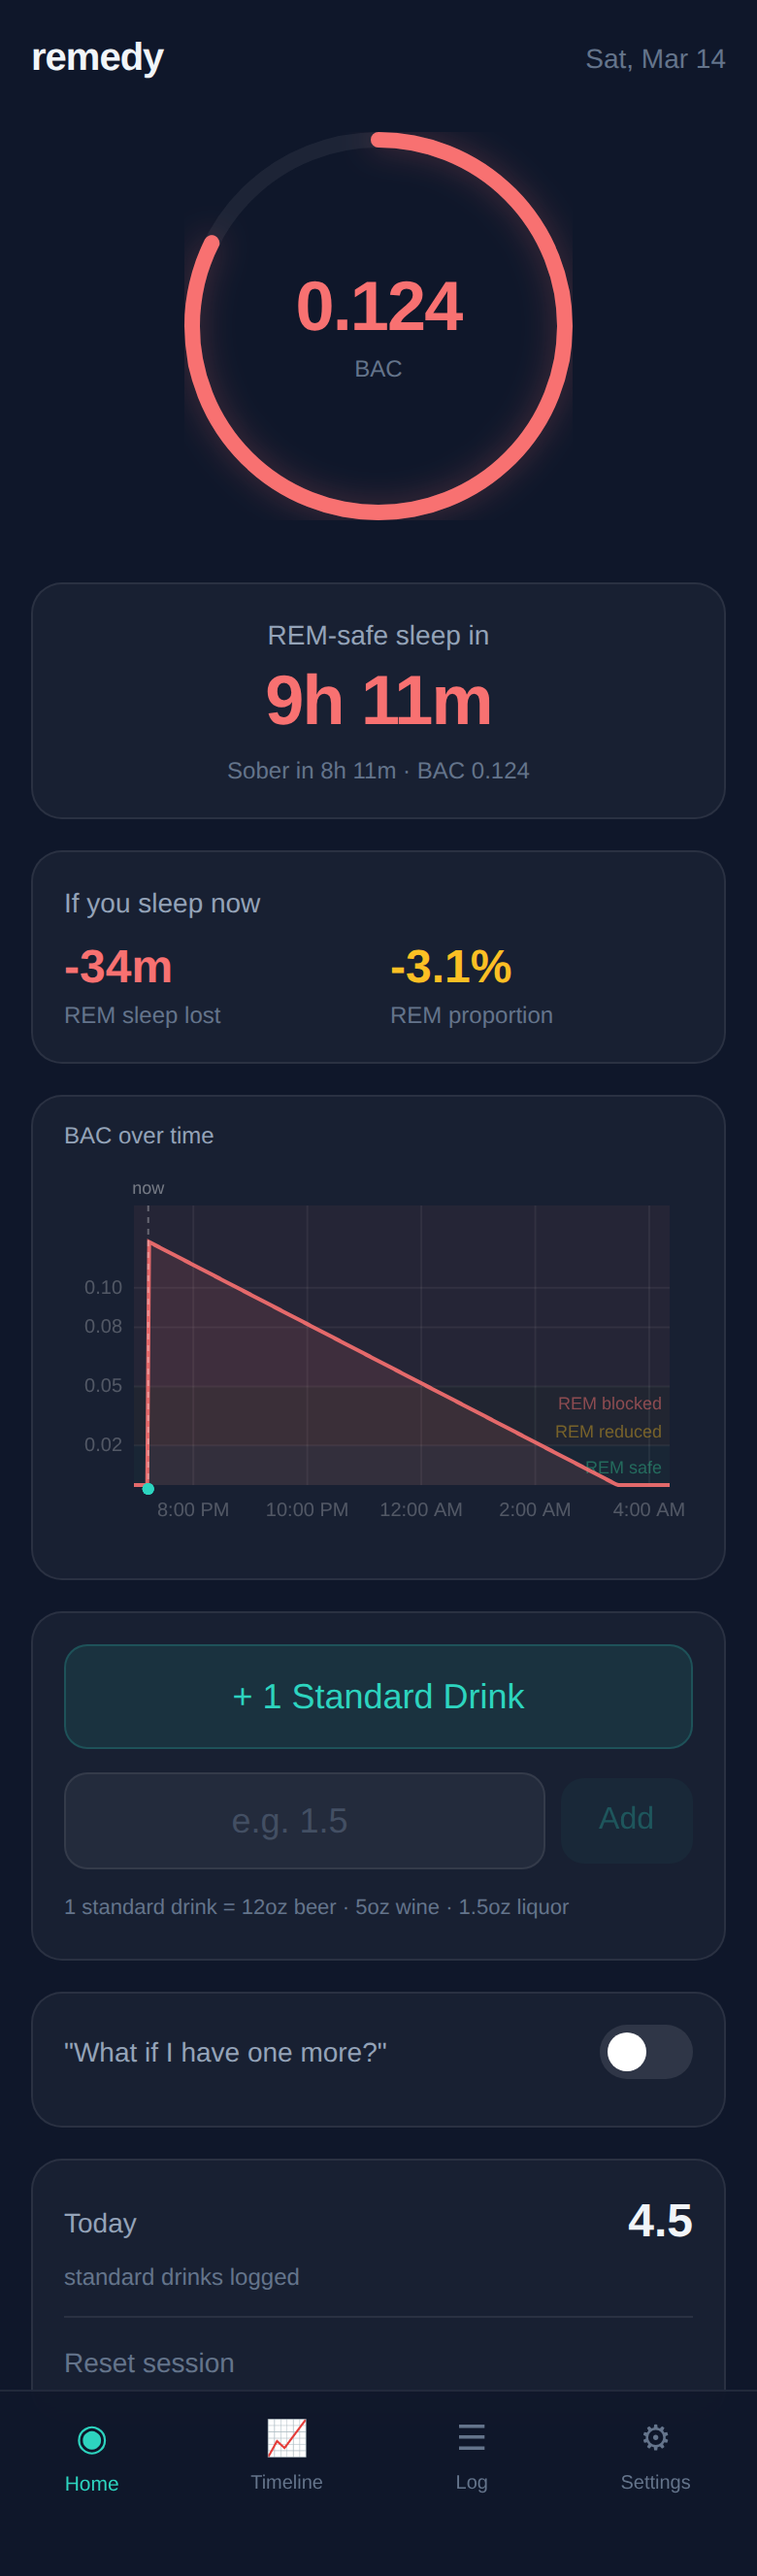
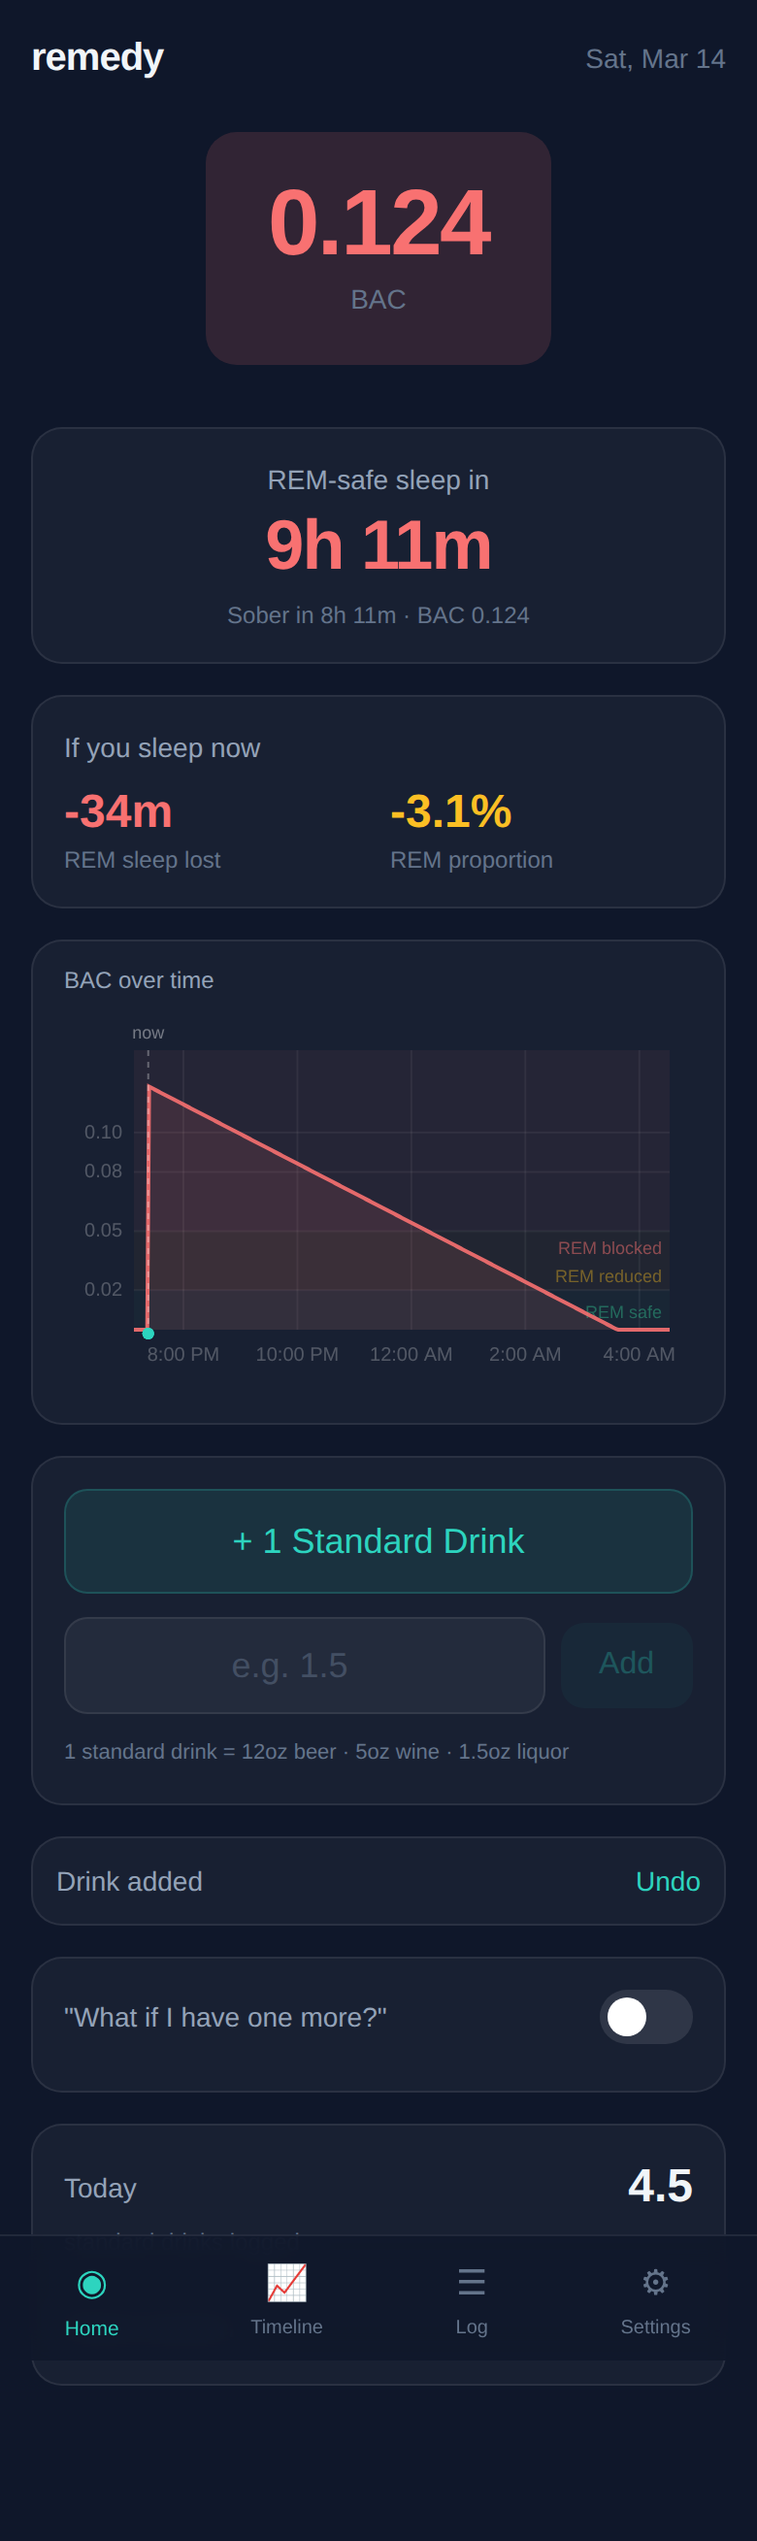
Replace BAC ring gauge with simple color display, add undo
Ring gauge implied "filling up" toward a bad number — wrong metaphor
for a health app. Replaced with a clean BAC number on a color-tinted
background. Added 5-second undo toast after adding a drink.

https://claude.ai/code/session_01DsPsUywqPmyv1QM4HMqGXa

diff --git a/src/App.tsx b/src/App.tsx
@@ -41,8 +41,10 @@ function App() {
   const [customAmount, setCustomAmount] = useState<string>('');
   const [drinkPulse, setDrinkPulse] = useState(false);
   const [showResetConfirm, setShowResetConfirm] = useState(false);
+  const [lastAddedId, setLastAddedId] = useState<string | null>(null);
   const [tick, setTick] = useState(0); // force re-render every second
   const pulseTimeout = useRef<ReturnType<typeof setTimeout>>(undefined);
+  const undoTimeout = useRef<ReturnType<typeof setTimeout>>(undefined);
 
   // Stable hypothetical drinks list
   const hypotheticalDrinksList = useMemo<Drink[]>(
@@ -59,10 +61,11 @@ function App() {
     return () => clearInterval(interval);
   }, []);
 
-  // Cleanup pulse timeout on unmount
+  // Cleanup timeouts on unmount
   useEffect(() => {
     return () => {
       if (pulseTimeout.current) clearTimeout(pulseTimeout.current);
+      if (undoTimeout.current) clearTimeout(undoTimeout.current);
     };
   }, []);
 
@@ -105,10 +108,15 @@ function App() {
 
   const addDrink = useCallback(
     (standardDrinks: number = 1) => {
+      const id = generateId();
       updateDrinks((prev) => [
         ...prev,
-        { id: generateId(), timestamp: Date.now(), standardDrinks },
+        { id, timestamp: Date.now(), standardDrinks },
       ]);
+
+      setLastAddedId(id);
+      if (undoTimeout.current) clearTimeout(undoTimeout.current);
+      undoTimeout.current = setTimeout(() => setLastAddedId(null), 5000);
 
       setDrinkPulse(true);
       if (pulseTimeout.current) clearTimeout(pulseTimeout.current);
@@ -116,6 +124,14 @@ function App() {
     },
     [updateDrinks]
   );
+
+  const undoLastDrink = useCallback(() => {
+    if (lastAddedId) {
+      updateDrinks((prev) => prev.filter((d) => d.id !== lastAddedId));
+      setLastAddedId(null);
+      if (undoTimeout.current) clearTimeout(undoTimeout.current);
+    }
+  }, [lastAddedId, updateDrinks]);
 
   const clearSession = useCallback(() => {
     updateDrinks(() => []);
@@ -245,6 +261,19 @@ function App() {
                 1 standard drink = 12oz beer · 5oz wine · 1.5oz liquor
               </p>
             </div>
+
+            {/* Undo toast */}
+            {lastAddedId && (
+              <div className="card p-3 flex items-center justify-between animate-fade-in">
+                <span className="text-sm text-text-secondary">Drink added</span>
+                <button
+                  onClick={undoLastDrink}
+                  className="text-sm font-medium text-accent-teal active:scale-95 transition-transform"
+                >
+                  Undo
+                </button>
+              </div>
+            )}
 
             {/* What-If */}
             <div className={`card p-4 transition-all duration-300 ${whatIfMode ? 'border border-accent-blue/20' : ''}`}>

diff --git a/src/components/BACGauge.tsx b/src/components/BACGauge.tsx
@@ -8,49 +8,21 @@ interface BACGaugeProps {
 }
 
 export const BACGauge = memo(function BACGauge({ bac, quality }: BACGaugeProps) {
-  const size = 200;
-  const strokeWidth = 8;
-  const radius = (size - strokeWidth) / 2;
-  const circumference = 2 * Math.PI * radius;
-
-  const maxBAC = 0.15;
-  const percent = Math.min(bac / maxBAC, 1);
-  const offset = circumference * (1 - percent);
-
   const color = COLORS[quality].hex;
-  const glow = `rgba(${COLORS[quality].rgb}, 0.3)`;
+  const glow = `rgba(${COLORS[quality].rgb}, 0.15)`;
 
   return (
-    <div className="relative" style={{ width: size, height: size }}>
-      <svg width={size} height={size} className="transform -rotate-90">
-        <circle
-          cx={size / 2}
-          cy={size / 2}
-          r={radius}
-          fill="none"
-          stroke="rgba(255,255,255,0.06)"
-          strokeWidth={strokeWidth}
-        />
-        <circle
-          cx={size / 2}
-          cy={size / 2}
-          r={radius}
-          fill="none"
-          stroke={color}
-          strokeWidth={strokeWidth}
-          strokeLinecap="round"
-          strokeDasharray={circumference}
-          strokeDashoffset={offset}
-          className="gauge-ring"
-          style={{ filter: `drop-shadow(0 0 8px ${glow})` }}
-        />
-      </svg>
-      <div className="absolute inset-0 flex flex-col items-center justify-center">
-        <span className="text-4xl font-bold tracking-tight" style={{ color }}>
-          {formatBAC(bac)}
-        </span>
-        <span className="text-xs text-text-muted mt-1">BAC</span>
-      </div>
+    <div
+      className="flex flex-col items-center justify-center rounded-2xl py-6 px-8"
+      style={{ backgroundColor: glow }}
+    >
+      <span
+        className="text-5xl font-bold tracking-tight transition-colors duration-500"
+        style={{ color }}
+      >
+        {formatBAC(bac)}
+      </span>
+      <span className="text-sm text-text-muted mt-1">BAC</span>
     </div>
   );
 });
